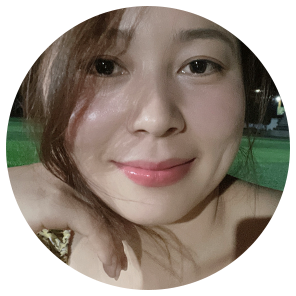
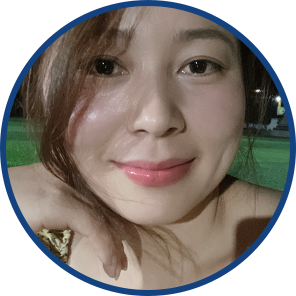
调整简历封面图片最大尺寸为200px

Changed region(s): [[0.0, 0.0, 1.0, 1.0]]

diff --git a/src/pages/Resume.tsx b/src/pages/Resume.tsx
@@ -43,7 +43,7 @@ export default function Resume() {
             <img 
               src={import.meta.env.BASE_URL + '椭圆 931.png'} 
               alt="简历封面" 
-              className="w-auto h-auto max-w-full mx-auto mb-6" 
+              className="max-w-[200px] max-h-[200px] mx-auto mb-6" 
             />
             <h1 className="text-4xl md:text-5xl font-bold tracking-tight mb-4">简历</h1>
             <p className="text-gray-400">了解我的专业背景与技能</p>
